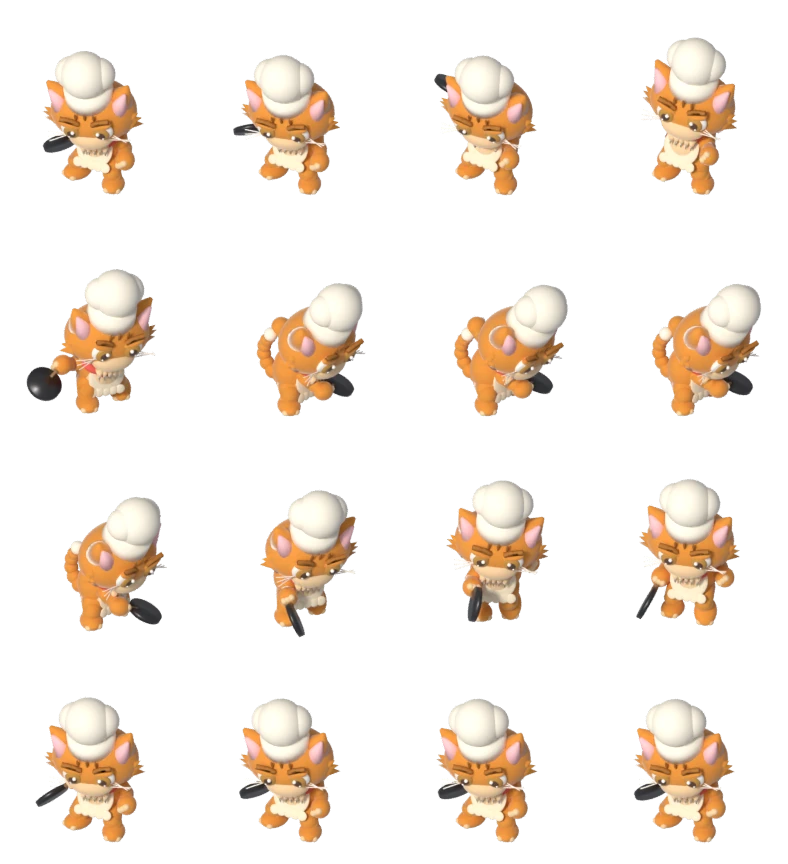
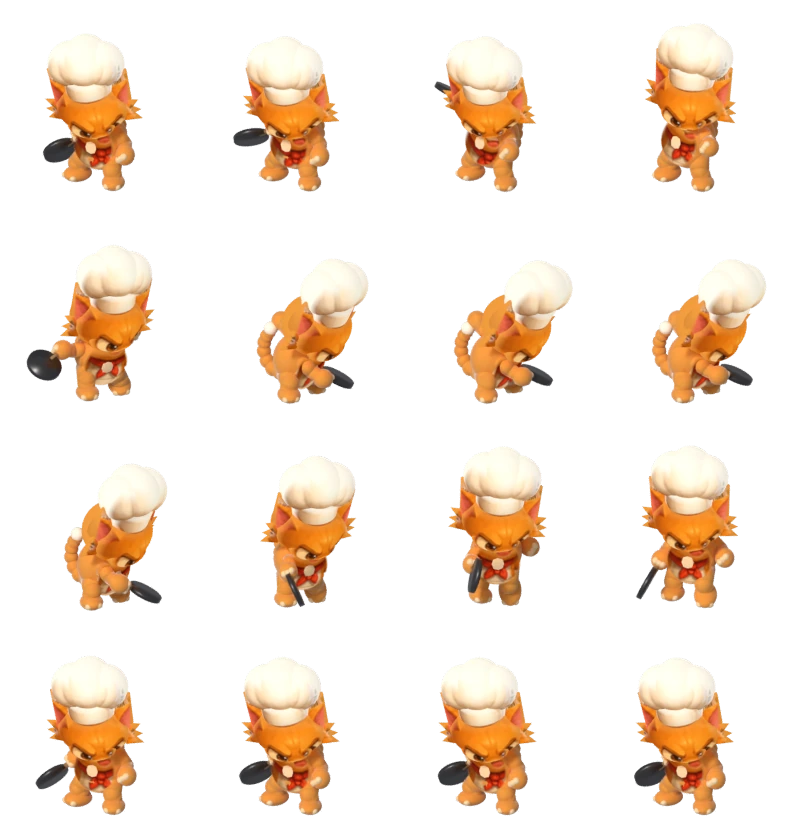
Chat chef 3D identique de face (peinture projetée), 5 angles dans le jeu, journal
Claude-Session: https://claude.ai/code/session_011iTQJ3ptn1M89syPvc6cfN

diff --git a/docs/memoire/JOURNAL.md b/docs/memoire/JOURNAL.md
@@ -12,6 +12,8 @@ Pour reprendre vite : lire d'abord [[REPRISE]] (`docs/memoire/REPRISE.md`).
 - **Chat chef Moustachu en 3D** : squelette de 53 os et 46 animations de capture de mouvement (« Universal Animation Library » de Quaternius, CC0), raccourci aux proportions du personnage. Corps fabriqué par code. Rendu sous 5 angles (face, trois-quarts, profil, trois-quarts dos, dos ; le jeu retourne l'image pour la gauche) : repos, marche, course (sprint), attaque. Planches dans `public/assets/anim3d/` ; mesures dans `src/core/anim3d.json` ; `Chef.ts` (`applyRig`) choisit l'angle selon la direction d'avancée ou de frappe, la cadence des pas suit la vitesse. Seul le chef sans costume en profite (les costumes gardent leurs images fixes).
 - **Ressemblance** : proportions, couleurs, toque, foulard, tablier, queue, poêle sont bons ; le visage reste plus simple que le dessin d'origine (pas identique). À resserrer.
 - **Pas fait** : les autres chefs, les combattants, les monstres, les 7 autres cartes ; les textures de sol réalistes (Poly Haven, ambientCG : leurs domaines de téléchargement `dl.polyhaven.org` et `acg-download.struffelproductions.com` ne sont pas autorisés dans l'environnement cloud) ; l'angle d'attaque (il tourne le dos par moments).
+- **Ressemblance du chat (suite, 17/11 soir)** : la tête (visage, yeux, sourcils, oreilles, toque) et le plastron (foulard rouge, tablier) du chat 3D sont maintenant la **peinture d'origine projetée de face** sur des volumes 3D accrochés aux os (`painted_head()` dans `chef.py`, images recadrées dans `tools/blender/_work/`, produites depuis `public/assets/sprites3d/moustachu.png`). De face, on retrouve le dessin à l'identique ; sur les côtés et le dessus, la matière passe à une couleur unie (la peinture s'étire sinon). Le profil et le dos sont donc plus simples que le dessin. Pour un autre chef : ajouter une entrée dans `SPECS` avec les zones de la peinture (`paint`), recadrer la tête et le plastron, relancer `chef.py ... jeu` puis `pack_anim.py`.
+- Pas fait : la poêle (tenue de façon peu naturelle), les autres personnages, les cartes restantes ; la caméra des personnages est à 18 degrés (presque de face, comme la peinture).
 - **Licences** : les modèles Quaternius sont libres pour un jeu commercial sans citer l'auteur ; on ne peut pas redistribuer les modèles eux-mêmes. Ils ne sont donc PAS dans le dépôt (seuls les rendus le sont). Dossier lu par défaut : `/home/user/walterpalladino/godot-quaternius-ultimate-stylized-nature/...` (dépôt GitHub public cloné avec `add_repo`) et `/home/user/j-ponzo/gltf-universal-animation-library`.
 - **Obsidian** : Claude ne peut pas lire le disque du PC de Rudy depuis le cloud (aucun dossier partagé par Remote Control). Le journal du projet voyage par GitHub (`git pull` sur le PC).
 
